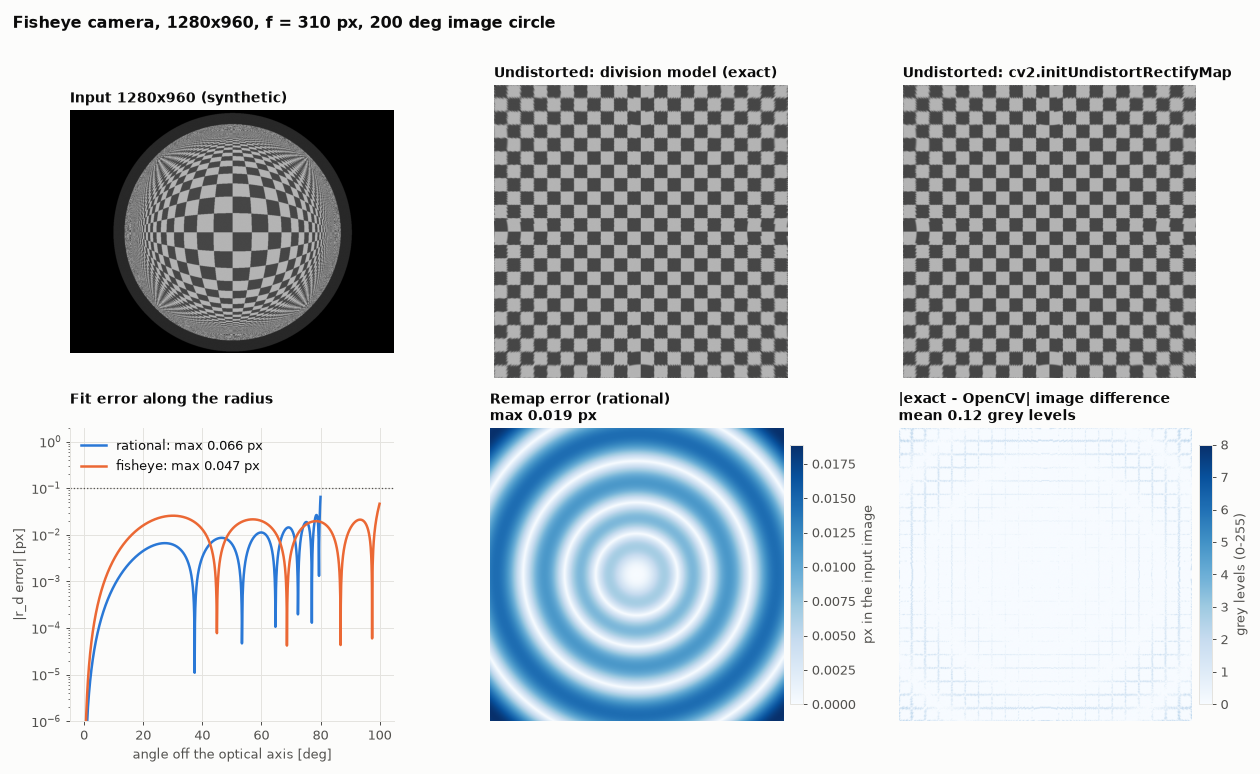
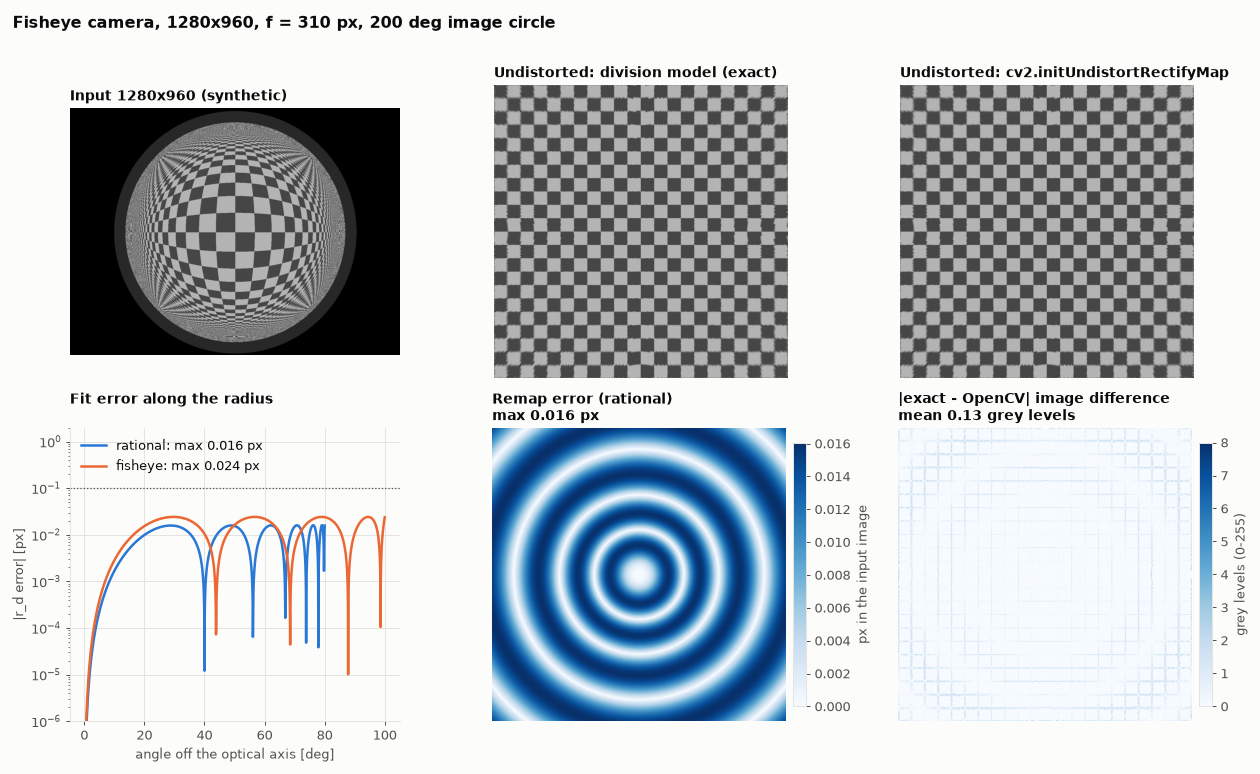
Fit the rational model without poles and minimise the max error

diff --git a/division_to_opencv/fit.py b/division_to_opencv/fit.py
@@ -91,18 +91,30 @@ def fit_rational(model: DivisionModel, focal_length, r_max, max_angle_deg=80.0, 
     if not np.all(np.diff(r_u) > 0):
         raise ValueError("the division model is not monotonic on the fitted range")
 
-    # Linear least squares: multiplying out the denominator makes the model linear in k
-    q = r_d / r_u
     x = (r_u / f) ** 2
+
+    # Starting points. The denominator-free polynomial cannot have a pole, so there is
+    # always a valid start; the full linear solution is better but may hide a pole
+    # (a near-cancelling zero/pole pair), so it is used only when it has none.
+    poly = np.zeros(6)
+    poly[:3] = np.linalg.lstsq(np.stack([r_u * x, r_u * x**2, r_u * x**3], axis=1), r_d - r_u, rcond=None)[0]
+    starts = [poly]
+    q = r_d / r_u   # multiplying out the denominator makes the model linear in k
     a = np.stack([x, x**2, x**3, -q * x, -q * x**2, -q * x**3], axis=1)
-    k = np.linalg.lstsq(a, q - 1.0, rcond=None)[0]
+    linear = np.linalg.lstsq(a, q - 1.0, rcond=None)[0]
+    if np.all(_rational_eval(linear, r_u, f)[2] > 0):
+        starts.append(linear)
 
+    def max_error(k):
+        return float(np.max(np.abs(_rational_eval(k, r_u, f)[0] - r_d)))
+
+    candidates = list(starts)
     if refine:
-        k = _refine_rational(k, r_u, r_d, f)
+        candidates += [_refine_rational(k0, r_u, r_d, f) for k0 in starts]
+        candidates.append(_minimax_rational(min(candidates, key=max_error), r_u, r_d, f))
+    k = min(candidates, key=max_error)  # the accuracy we report is the max error
 
-    pred, _, den, _ = _rational_eval(k, r_u, f)
-    if np.any(den <= 0):
-        raise ValueError("the fitted rational model has a pole inside the fitted range")
+    pred = _rational_eval(k, r_u, f)[0]
     err = pred - r_d
     angle = float(np.degrees(model.angle(r_fit, f)))
     D = np.array([k[0], k[1], 0.0, 0.0, k[2], k[3], k[4], k[5]])
@@ -110,18 +122,38 @@ def fit_rational(model: DivisionModel, focal_length, r_max, max_angle_deg=80.0, 
                      float(np.sqrt(np.mean(err**2))), notes)
 
 
-def _refine_rational(k, r_u, r_d, f, iterations=100):
-    """Levenberg-Marquardt on the residual in distorted pixels (the linear fit minimises a proxy)."""
+def _minimax_rational(k, r_u, r_d, f, rounds=15):
+    """Lawson's iteratively reweighted least squares: drives the weighted LSQ towards the
+    smallest maximum error. Returns the best (lowest max error) parameters seen."""
+    w = np.full(len(r_d), 1.0 / len(r_d))
+    best, best_err = k, np.inf
+    for _ in range(rounds):
+        k = _refine_rational(k, r_u, r_d, f, weights=w, iterations=10)
+        e = np.abs(_rational_eval(k, r_u, f)[0] - r_d)
+        if e.max() < best_err:
+            best, best_err = k, e.max()
+        w = w * e
+        if w.sum() <= 0:
+            break
+        w /= w.sum()
+    return best
+
+
+def _refine_rational(k, r_u, r_d, f, weights=None, iterations=100):
+    """Levenberg-Marquardt on the (weighted) residual in distorted pixels, accepting only
+    steps that keep the denominator positive on the whole fitted range (no poles)."""
+    sw = np.ones_like(r_d) if weights is None else np.sqrt(weights)
+
     def residual(k):
         pred, _, den, _ = _rational_eval(k, r_u, f)
-        return pred - r_d, den
+        return sw * (pred - r_d), den
 
     res, den = residual(k)
     cost = float(res @ res)
     lam = 1e-3
     for _ in range(iterations):
         pred, num, den, x = _rational_eval(k, r_u, f)
-        cols = [r_u * x**i / den for i in (1, 2, 3)] + [-pred * x**i / den for i in (1, 2, 3)]
+        cols = [sw * r_u * x**i / den for i in (1, 2, 3)] + [-sw * pred * x**i / den for i in (1, 2, 3)]
         j = np.stack(cols, axis=1)
         scale = np.linalg.norm(j, axis=0)
         scale[scale == 0] = 1.0
@@ -159,9 +191,26 @@ def fit_fisheye(model: DivisionModel, focal_length, r_max, max_angle_deg=None, s
     theta = model.angle(r_d, f)
     if not np.all(np.diff(theta) > 0):
         raise ValueError("the division model's view angle is not monotonic on the fitted range")
-    # r_d / f = theta + k1 theta^3 + ... + k4 theta^9 is linear in k and already in pixel units
+    if theta[-1] > np.pi / 2:
+        notes.append(f"includes rays beyond 90 deg (up to {np.degrees(theta[-1]):.1f} deg); "
+                     "if the lens cannot see them, limit max_angle_deg")
+    # r_d / f = theta + k1 theta^3 + ... + k4 theta^9 is linear in k and already in pixel units.
+    # Least squares first, then Lawson's reweighting towards the smallest maximum error.
     a = np.stack([theta**3, theta**5, theta**7, theta**9], axis=1)
-    k = np.linalg.lstsq(a, r_d / f - theta, rcond=None)[0]
+    b = r_d / f - theta
+    w = np.full(len(b), 1.0 / len(b))
+    best, best_err = None, np.inf
+    for _ in range(50):
+        sw = np.sqrt(w)
+        k = np.linalg.lstsq(a * sw[:, None], b * sw, rcond=None)[0]
+        e = np.abs(a @ k - b)
+        if e.max() < best_err:
+            best, best_err = k, e.max()
+        w = w * e
+        if w.sum() <= 0:
+            break
+        w /= w.sum()
+    k = best
     pred = f * theta * (1 + k[0] * theta**2 + k[1] * theta**4 + k[2] * theta**6 + k[3] * theta**8)
     err = pred - r_d
     return FitResult("fisheye", k, f, float(r_max), float(np.degrees(theta[-1])),

diff --git a/tests/test_fit.py b/tests/test_fit.py
@@ -81,6 +81,38 @@ def test_fisheye_beyond_90deg():
     np.testing.assert_allclose(cv_pts[:, 0, :], pts[front], atol=1e-6)
 
 
+def test_wavy_high_order_model_fits_without_pole():
+    # Made-up model with large alternating high-order terms, like an over-fitted calibration;
+    # version 0.1.0 ended with a pole inside the range at 75 and 80 deg
+    t = (-0.25, -0.9, 2.6, -4.0, 3.1, -0.95)          # terms c_i r^(2i) at r = 1500 px
+    m = DivisionModel([ti / 1500.0 ** (2 * (i + 1)) for i, ti in enumerate(t)])
+    f, r_max = 1800.0, 1850.0
+    for angle in (40.0, 60.0, 75.0, 80.0):
+        fit = fit_rational(m, f, r_max, max_angle_deg=angle)
+        r_u = m.undistort_radius(np.linspace(0.0, fit.r_max, 100001))
+        x = (r_u / f) ** 2
+        k4, k5, k6 = fit.D[5:]
+        assert np.all(1 + k4 * x + k5 * x**2 + k6 * x**3 > 0), angle
+        assert np.isfinite(fit.max_error_px)
+    assert fit_rational(m, f, r_max, max_angle_deg=40.0).max_error_px < 0.05
+
+
+def test_max_error_is_minimised():
+    # the reported accuracy is the max error, so the fit must not trade it for rms
+    m = DivisionModel(FISHEYE["c"])
+    r_max = max_radius(FISHEYE["size"], FISHEYE["center"])
+    best = fit_rational(m, FISHEYE["f"], r_max)
+    plain = fit_rational(m, FISHEYE["f"], r_max, refine=False)
+    assert best.max_error_px <= plain.max_error_px
+
+
+def test_fisheye_notes_rays_beyond_90deg():
+    m = DivisionModel(FISHEYE["c"])
+    r_max = max_radius(FISHEYE["size"], FISHEYE["center"])
+    assert any("beyond 90 deg" in n for n in fit_fisheye(m, FISHEYE["f"], r_max).notes)
+    assert not any("beyond 90 deg" in n for n in fit_fisheye(m, FISHEYE["f"], r_max, max_angle_deg=85).notes)
+
+
 def test_non_monotonic_model_is_rejected():
     m = DivisionModel((5.0e-6,))  # r_u = r_d / (1 + c r_d^2) turns back at r_d = 447 px
     with pytest.raises(ValueError):

diff --git a/division_to_opencv/__init__.py b/division_to_opencv/__init__.py
@@ -15,4 +15,4 @@ __all__ = [
     "reference_maps",
     "map_error",
 ]
-__version__ = "0.1.0"
+__version__ = "0.2.0"

diff --git a/README.md b/README.md
@@ -35,14 +35,14 @@ division model c = [-2.1e-07, -4e-14], f = 1050 px, fitted up to r_d = 1105.5 px
 K = [[1050.0, 0.0, 963.4], [0.0, 1050.0, 538.2], [0.0, 0.0, 1.0]]
 
 [rational]
-  D = [0.994552899, 0.290929574, 0.0, 0.0, 0.00951194055, 1.22606457, 0.516372381, 0.0509777005]
+  D = [0.994553258, 0.289269815, 0.0, 0.0, 0.00935983015, 1.22606426, 0.514714888, 0.0504306632]
   fitted r_d <= 1105.5 px (57.0 deg off-axis)
-  error: max 0.0004 px, rms 0.0001 px
+  error: max 0.0002 px, rms 0.0001 px
 
 [fisheye]
-  D = [0.101996199, -0.0410090437, -0.00979538662, 0.00725174091]
+  D = [0.102059836, -0.0413847605, -0.00913833803, 0.00689881325]
   fitted r_d <= 1105.5 px (57.0 deg off-axis)
-  error: max 0.0108 px, rms 0.0022 px
+  error: max 0.0038 px, rms 0.0025 px
 ```
 
 Options:
@@ -107,14 +107,18 @@ Both models are radial around the same centre, so the whole conversion is a **1-
 fit**. No calibration images or detected corners are needed.
 
 * **rational**: `r_d = r_u (1 + k1 x + k2 x^2 + k3 x^3) / (1 + k4 x + k5 x^2 + k6 x^3)`,
-  `x = (r_u / f)^2`. Multiplying out the denominator makes it linear in `k`, which gives
-  the starting point; Levenberg-Marquardt then minimises the error in pixels.
-  `p1 = p2 = 0`.
+  `x = (r_u / f)^2`, `p1 = p2 = 0`. Two linear least-squares solutions give the starting
+  points: the full model with the denominator multiplied out, and the polynomial alone
+  (denominator 1). Levenberg-Marquardt then minimises the error in pixels and only accepts
+  steps that keep the denominator positive, so the result never has a pole inside the
+  fitted range.
 * **fisheye**: `r_d = f theta (1 + k1 theta^2 + ... + k4 theta^8)` is linear in `k` and
-  already in pixels, so one least-squares solve is optimal.
+  already in pixels.
 
+Both fits finish with Lawson's iteratively reweighted least squares, which minimises the
+**maximum** error rather than the rms, because the maximum is the accuracy that is reported.
 The samples are spread uniformly over the distorted radius up to the farthest image corner,
-so the whole image is covered with the same weight.
+so the whole image is covered with the same weight. A conversion takes well under a second.
 
 ## Accuracy
 
@@ -122,10 +126,10 @@ Results of `python examples/demo.py` on two made-up cameras:
 
 | Camera | Model | Fitted range | Max error |
 |---|---|---|---|
-| wide-angle, 1920x1080, f = 1050 | rational | whole image (57 deg) | 0.0004 px |
-| | fisheye | whole image (57 deg) | 0.011 px |
-| fisheye, 1280x960, f = 310 | rational | up to 80 deg | 0.066 px |
-| | fisheye | image circle (100 deg) | 0.047 px |
+| wide-angle, 1920x1080, f = 1050 | rational | whole image (57 deg) | 0.0002 px |
+| | fisheye | whole image (57 deg) | 0.004 px |
+| fisheye, 1280x960, f = 310 | rational | up to 80 deg | 0.016 px |
+| | fisheye | image circle (100 deg) | 0.024 px |
 
 ![fisheye camera](docs/fisheye.png)
 
@@ -139,6 +143,15 @@ at `max_error_px` for your camera.
   (`--size`), not just to the image border.
 * **The rational model is pinhole based** and cannot go to 90 degrees; it gets inaccurate
   beyond about 80 degrees. Use the fisheye model for wider lenses.
+* **High-order calibrations may not convert exactly.** A division model with many
+  coefficients whose terms are large and of alternating sign (typical of an over-fitted
+  calibration) has a wavy curve that 6 rational or 4 fisheye coefficients cannot follow
+  exactly; expect tenths of a pixel or more. Check `max_error_px` and, if it is too high,
+  lower `--max-angle` to the part of the image you need. Such a polynomial may also reach
+  `P = 0` (90 degrees) inside the image corners although the lens cannot see that far.
+* **The fisheye fit includes rays beyond 90 degrees** when the model reaches them within
+  the fitted radius (the result then carries a note). If your lens cannot see them, limit
+  the fit with `--fisheye-max-angle`.
 * **`cv2.fisheye.projectPoints` cannot project rays beyond 90 degrees** (it divides by
   `z`). The fitted coefficients still describe them; use
   `division_to_opencv.project_fisheye` to project such points.
